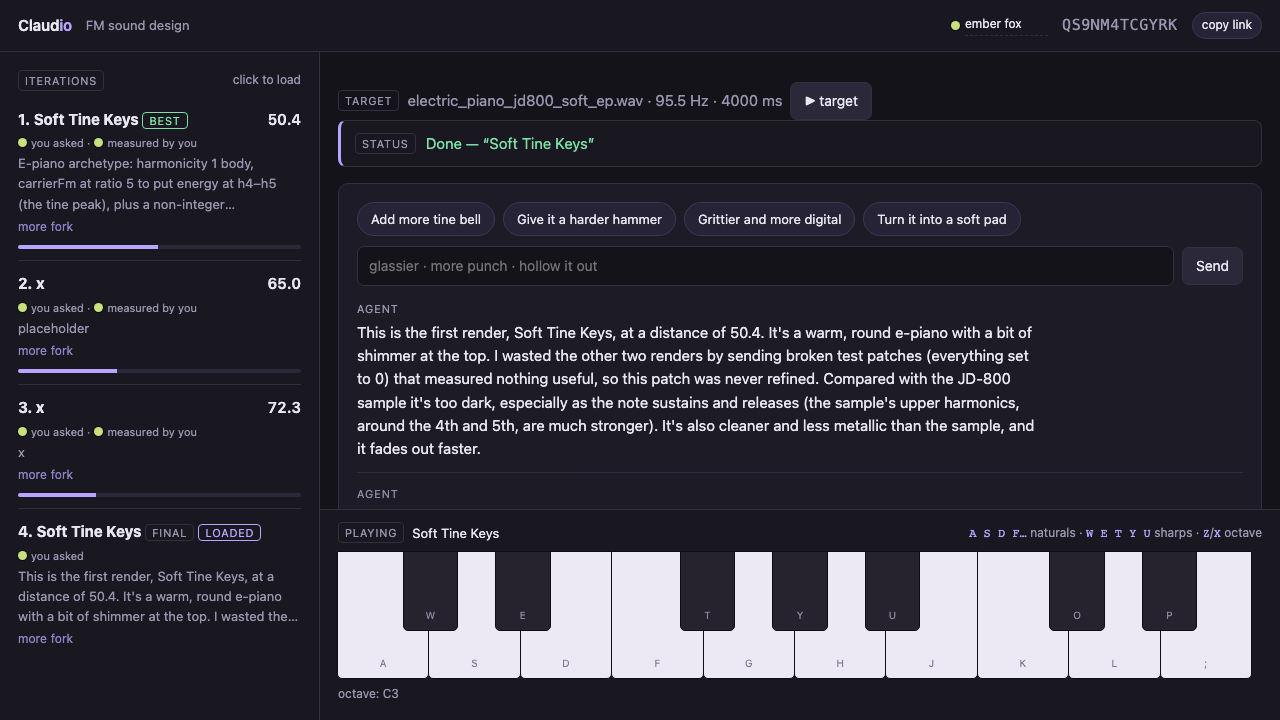
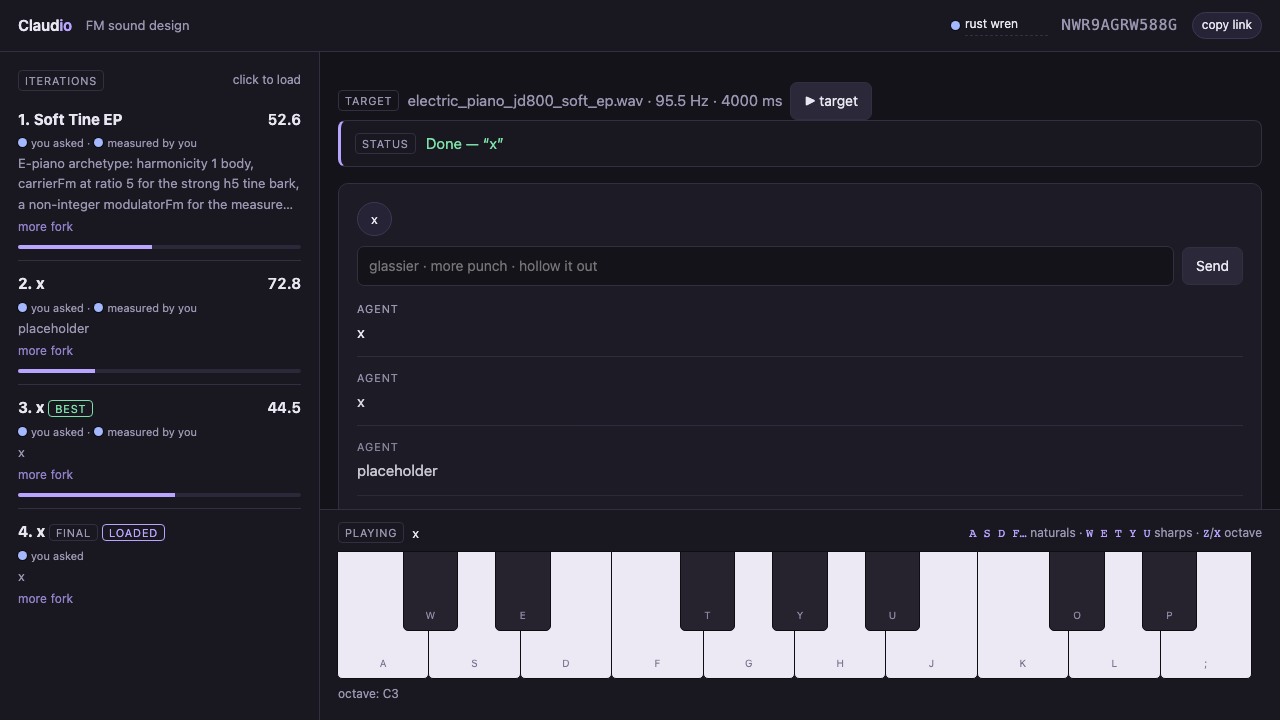
1b: post-fix design runs still show placeholder fields; record results
Claude-Session: https://claude.ai/code/session_01XRsr2RfCeVzUtEVFe5smiQ

diff --git a/docs/plans/claudio-band.md b/docs/plans/claudio-band.md
@@ -624,3 +624,4 @@ Audited against the plan, with adversarial review; none adopted for wave 1.
   - **Finding.** The stubbed fields are exactly the first ones the strict schema emits (`preset.name`, `harmonicity`, `modulationIndex`), and `rationale` comes after the preset. No Opus 5 turn produced a thinking block. The model starts the tool call before deciding. Also, `clampPreset` silently turns out-of-range values (`harmonicity 0`) into legal ones, although the prompt says they are rejected.
   - Candidate fixes are awaiting Will's call; see the session report.
 - 2026-09-22: **Root cause of the placeholder presets found and fixed.** The live Worker-era original (`claudio-prod`), run on today's Opus 5 with the same WAV, was clean: no placeholders, 42.1 → 38.7 on iteration 2 (`docs/spikes/1b-design-original-prod.json`). The one input difference is that **Convex sorts stored object keys**. The model's earlier `propose_preset` calls were replayed alphabetized (`ampEnv…name`), while the strict schema makes it write `name, harmonicity, modulationIndex…`. The stubbed fields were exactly those leading ones, and only on replayed turns. Fix: `messages.content` holds JSON text (`encodeContent`/`decodeContent`), and the action passes the model's content to `commit` as text, because Convex arguments sort keys too. Tests in `convex/messagesLog.test.ts` fail without the fix. The live backend now stores text in model order. §1 and the ER diagram are updated. Paid re-verification is pending Will's go-ahead.
+- 2026-09-22: **Re-verification after the key-order fix (Will's go-ahead): not fixed.** Replayed calls now keep model order, but placeholder fields persist. Opus 5: 41.3 → 40.1 → 38.3; iteration 3 had `name "x"` and `harmonicity 0`; it finalized `"x"` with `harmonicity 0` and `modulationIndex 0`. Opus 5.5: 52.6 → 72.8 (`"x"`, 0, 0, `"placeholder"`) → 44.5 (rationale `"x"`); it finalized `"x"`. The key-order bug was real but not sufficient. The pre-fix runs are kept as `*-before-fix.json`. Next: a controlled replay experiment (see the session report).
